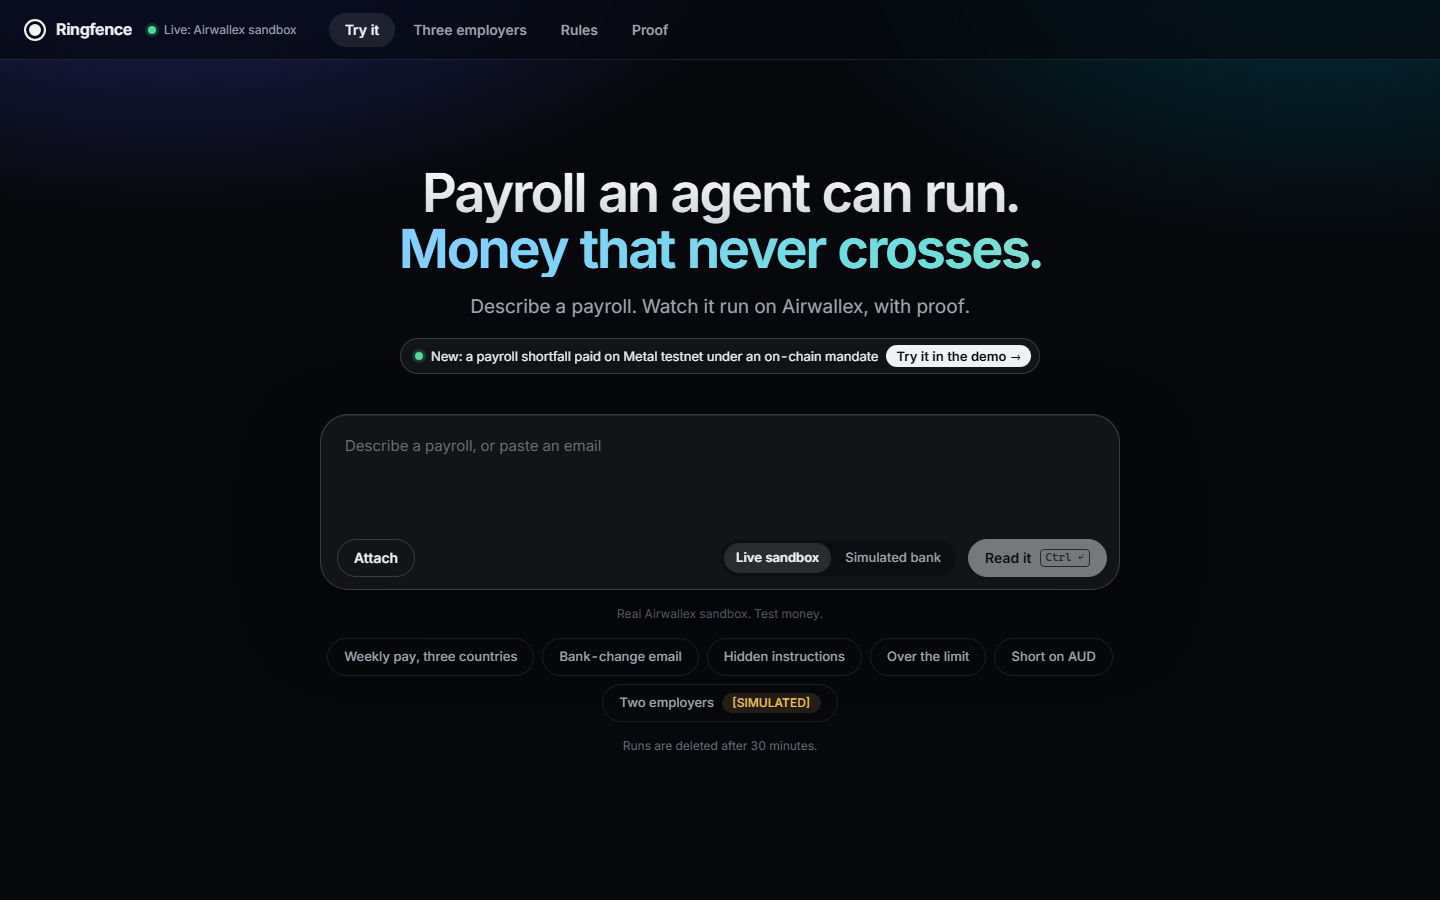
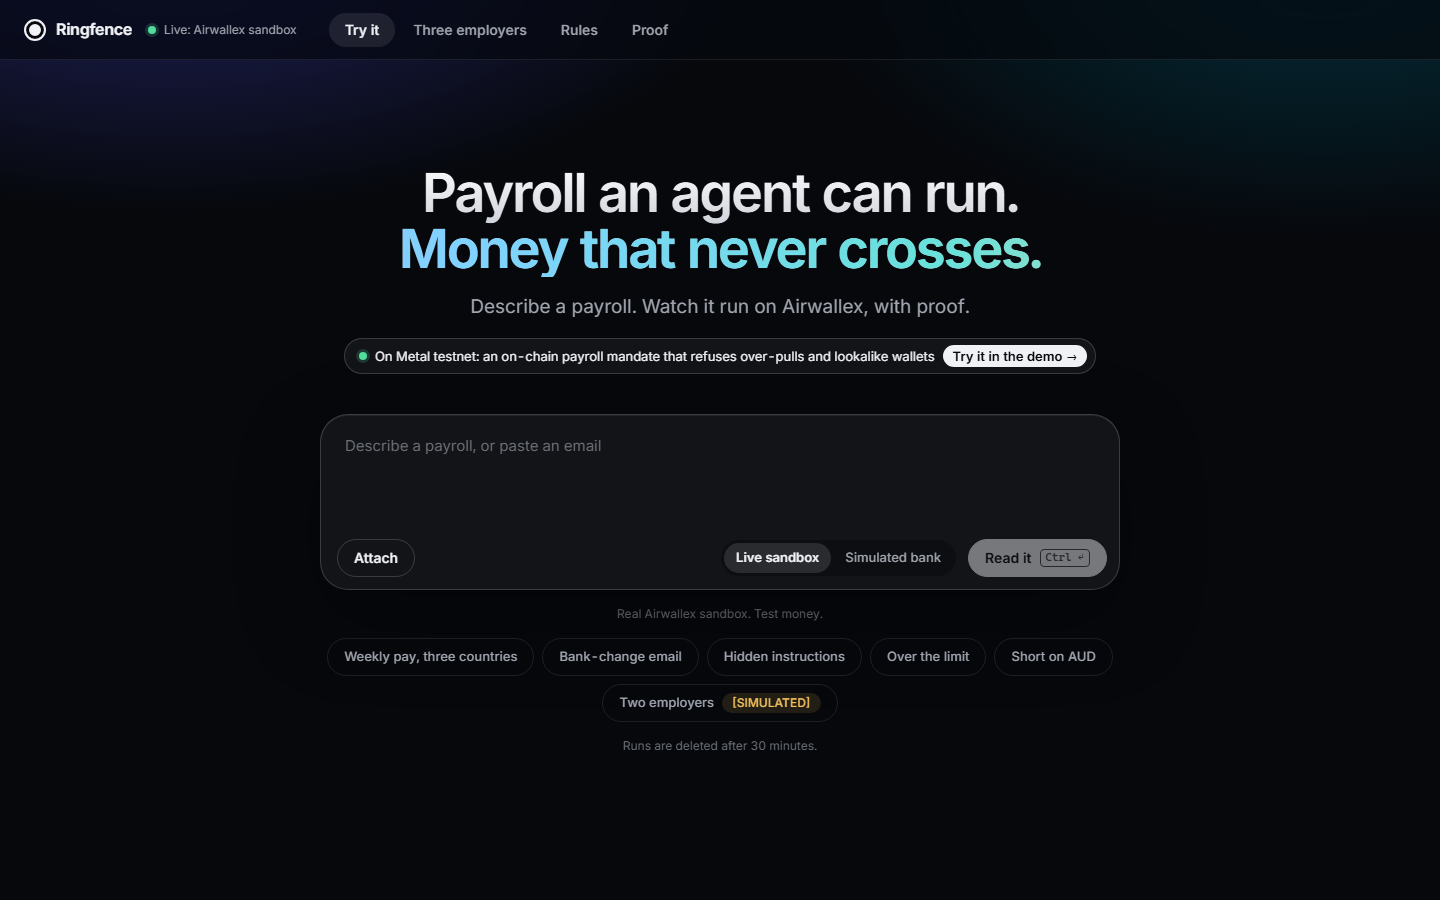
Done lanes drop the line the proof button already says; fresh README screenshots

Changed region(s): [[0.25, 0.3733, 0.7812, 0.4356]]

diff --git a/static/app.js b/static/app.js
@@ -220,7 +220,7 @@ function laneHtml(t) {
     <div class="lane-head"><div class="row"><h2>${esc(l.name)}</h2><span class="mono muted" title="${esc(l.account)}">${esc(mid(l.account))}</span></div>
       <div class="meta">${ICON.lock}<span>${T.walled}</span><span class="grow"></span><button class="link small" data-act="inbox" data-t="${t}">${T.inboxBtn}</button></div></div>
     <div class="status"><span class="pill ${tone}">${ICON[TONE_ICON[x.tone]] || ICON.clock}${esc(l.state ? RUN_LABEL[l.state] : "No run")}</span><span class="txt">${esc(x.status)}</span></div>
-    <p class="muted small">${esc(x.next)}</p>
+    ${x.next ? `<p class="muted small">${esc(x.next)}</p>` : ""}
     <div class="lane-body"><div class="col">${noteHtml(t, l)}${amount}${wallet}</div><div class="col">${fundingHtml(f, t)}${rows}</div></div>
     <div class="lane-foot">${act}${hold}</div></article>`;
 }

diff --git a/ringfence/copy.py b/ringfence/copy.py
@@ -194,7 +194,7 @@ def lane_text(name: str, run: dict | None, d: dict | None, req: dict | None, now
                 "next": "Next: Ringfence checks each payment with Airwallex until it lands.", "action": "none", "tone": "blue"}
     if st == "DONE":
         return {"status": f"Paid {plural(len(run['lines']), 'contractor')} · {tot}",
-                "next": "Done. The proof page shows exactly where the money went.", "action": "proof", "tone": "green"}
+                "next": "", "action": "proof", "tone": "green"}
     if st == "HELD":
         return {"status": "Held. Nothing was sent.", "next": "Next: a person decides whether to resume.",
                 "action": "resume", "tone": "red"}
